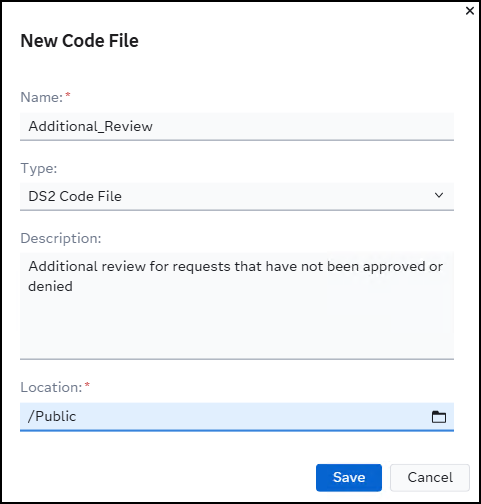
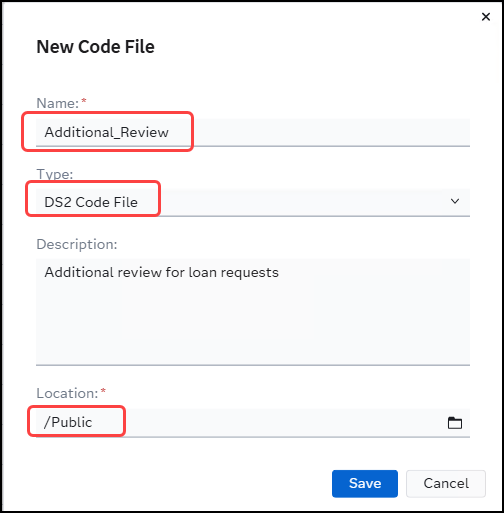
updated DS2 Code

diff --git a/Getting_Started_with_SAS_Intelligent_Decisioning.md b/Getting_Started_with_SAS_Intelligent_Decisioning.md
@@ -168,7 +168,7 @@ Select **No** when prompted about accepting *Admin* privileges.
 1. Enter the following information:
     * Name: **Additional_Review**
     * Type: **DS2 Code File** (default selection)
-    * Description: **Additional review for requests that have not been approved or denied**
+    * Description: **Additional review for loan requests**
     * Location: **/Public**
 
      ![DS2 code 1 - settings](images/DS2Code1.png)
@@ -211,14 +211,12 @@ Select **No** when prompted about accepting *Admin* privileges.
 
 1. Click ![Save button](images/SaveButton.png) to save the code file.
 
-***update pic
-
-      ![Pasted DS2 Code](images/DS2CodePasted.png)
+   ![Pasted DS2 Code](images/DS2CodePasted.png)
 
 1. Click **Sync variables** to add the variables declared in the DS2 code to the *Variables* tab for for the code file.
 1. Select the **Variables** tab to confirm the variables were added.
 
-     ![DS2 Code Variables](images/DS2CodeVars.png)
+   ![DS2 Code Variables](images/DS2CodeVars.png)
 
 1. To test the code file, select the **Scoring** tab.
 1. On the **Tests** sub-tab, click **New Test**.
@@ -245,16 +243,14 @@ Select **No** when prompted about accepting *Admin* privileges.
 1. Click **Save** to save this test to the code file.
 1. Check the newly created test and click **Run** to run the specified test.
 
-     ![Select test](images/SelectTest.png)
+     ![Select Code Test](images/SelectCodeTest.png)
 
      > &#9998; It may take a few seconds for the test to complete.  You can select ![Refresh](images/Refresh.png) to refresh the test status.
 
 1. Once the test run is complete, select ![Result table](images/ResultTable.png) to view the test results.
 1. Review the results on the *Output* tab.
 
-***update pic
-
-   ![DS2 test output](images/DS2TestOutput.png)
+    ![DS2 test output](images/DS2TestOutput.png)
 
 1. Click **x** close the test.
 1. Click **x** to close the code file.
